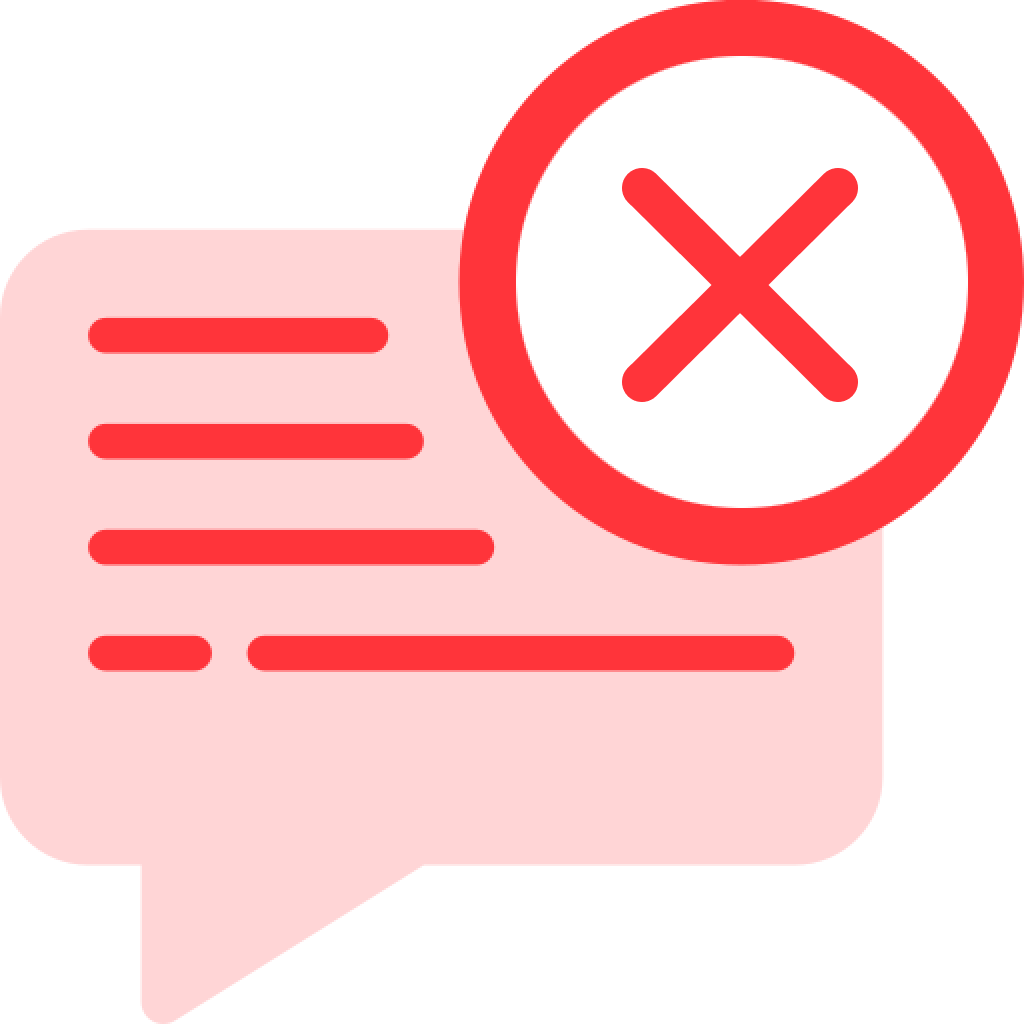
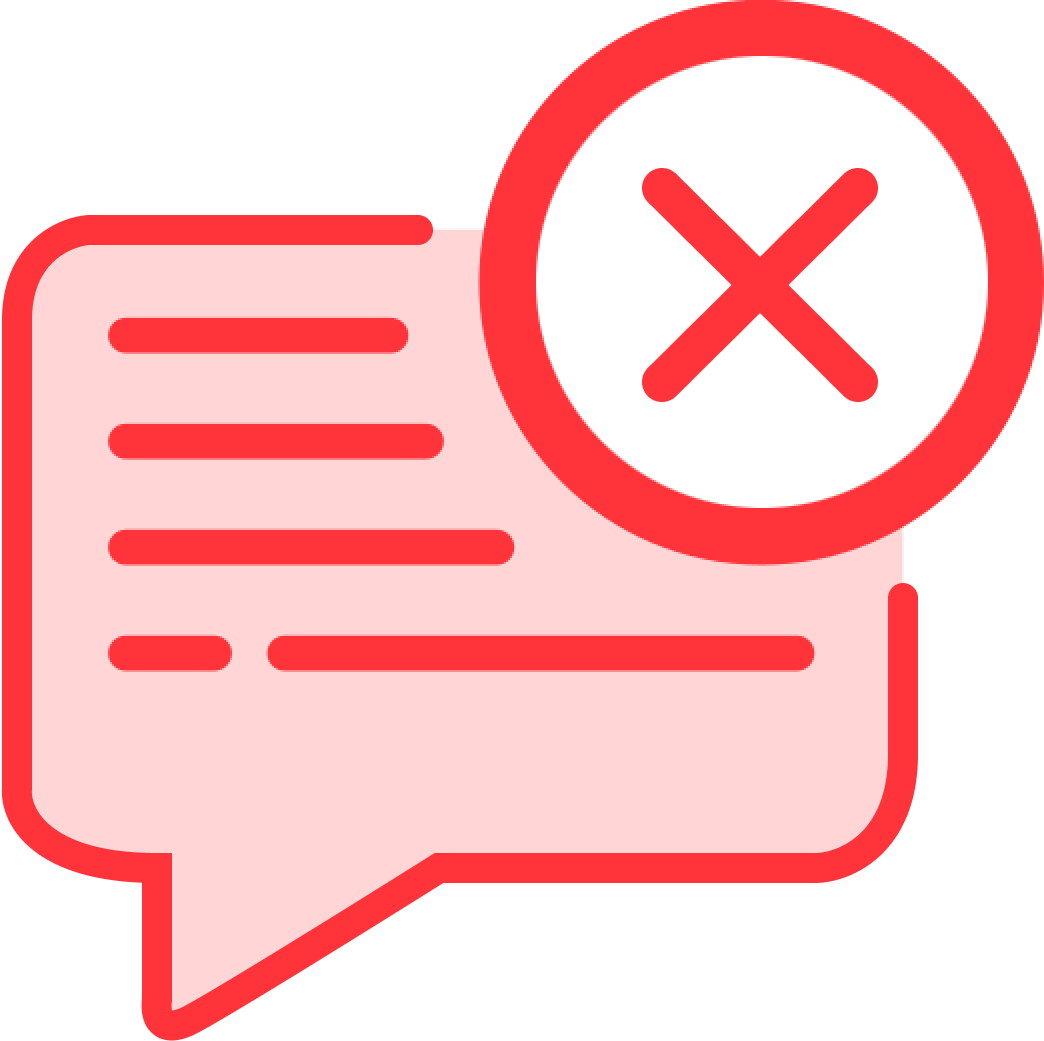
add button to scroll chat

diff --git a/src/screens/ChatDetails/index.js b/src/screens/ChatDetails/index.js
@@ -19,7 +19,7 @@ import { styles } from './style';
 import BackArrow from '../../components/BackArrow';
 import images from '../../services/utilities/images';
 import { TextInput } from 'react-native-gesture-handler';
-import { colors, sizes } from '../../services';
+import { colors, fontSize, sizes } from '../../services';
 import { KeyboardAwareScrollView } from 'react-native-keyboard-aware-scroll-view';
 import KeyboardSpacer from 'react-native-keyboard-spacer';
 import LottieView from 'lottie-react-native';
@@ -46,6 +46,7 @@ export default function ChatDetails({ navigation, route }) {
   const [chatId, setChatId] = useState(null)
   const [text, setText] = useState('')
   const [showImgScreen, setShowImgScreen] = useState(false)
+  const [showScrollToBottom, setShowScrollToBottom] = useState(false);
 
   useEffect(() => {
     if (chatRoomId) {
@@ -160,6 +161,16 @@ export default function ChatDetails({ navigation, route }) {
     return () => backHandler.remove();
   }, [userData, showImgScreen]);
 
+  const handleScroll = (event) => {
+    const offsetY = event.nativeEvent.contentOffset.y;
+    const contentHeight = event.nativeEvent.contentSize.height;
+    const layoutHeight = event.nativeEvent.layoutMeasurement.height;
+    if (offsetY < contentHeight - layoutHeight - 20) {
+      setShowScrollToBottom(true);
+    } else {
+      setShowScrollToBottom(false);
+    }
+  }
 
   const requestCameraPermission = async () => {
     const granted = await PermissionsAndroid.request(
@@ -242,8 +253,7 @@ export default function ChatDetails({ navigation, route }) {
     setShowImgScreen(false)
     setSelectedImages([])
   }
-  console.log("-=-=-==-", userData?.chat
-    .filter(chat => chat?._id === chatId));
+  const selectedChat = userData?.chat?.find(chat => chat?._id === chatId)
   return (
     <SafeAreaView>
       {showImgScreen ? (
@@ -296,21 +306,24 @@ export default function ChatDetails({ navigation, route }) {
             }} />
             <Text style={styles.headerText}>{chatName ? chatName : ''}</Text>
           </View>
-          {
-            chatId &&
-            userData?.chat?.length == [] &&
-            <View style={{ backgroundColor: 'red' }}>
-              <Text>no chat</Text>
-            </View>
-          }
+
           <View style={styles.chatSubContianer}>
+            {
+              selectedChat?.messages?.length === 0 &&
+              <Text style={{ color: 'black', bottom: sizes.screenHeight * 0.35, textAlign: 'center', fontSize: fontSize.smallM, fontWeight: '500' }}>
+                You're starting a new conversation. Say hi!
+              </Text>
+            }
             <View>
               <ScrollView
                 showsVerticalScrollIndicator={false}
                 contentContainerStyle={styles.scrollContianer}
                 ref={scrollViewRef}
                 onContentSizeChange={() => scrollToBottom()}
-                onLayout={handleLayout}>
+                onLayout={handleLayout}
+                onScroll={handleScroll}
+                scrollEventThrottle={16}
+              >
                 <View
                   style={
                     keyboardOpen
@@ -342,6 +355,18 @@ export default function ChatDetails({ navigation, route }) {
                   }
                 </View>
               </ScrollView>
+              {showScrollToBottom && (
+              <TouchableOpacity
+                style={styles.scrollTouchable}
+                onPress={() => {
+                  setShowScrollToBottom(false)
+                  scrollToBottom()
+                }}
+              >
+                <Image source={images.chatScroll} style={styles.scrollImg} />
+                {/* <Text style={styles.scrollToBottomButtonText}>⬇</Text> */}
+              </TouchableOpacity>
+               )}
             </View>
             <View
               style={
@@ -374,6 +399,7 @@ export default function ChatDetails({ navigation, route }) {
             </View>
             <KeyboardSpacer topSpacing={sizes.screenHeight * 0.045} />
           </View>
+
         </View>
       )}
     </SafeAreaView>

diff --git a/src/screens/ChatDetails/style.js b/src/screens/ChatDetails/style.js
@@ -32,7 +32,7 @@ export const styles = StyleSheet.create({
     // height: sizes.screenHeight,
     // marginBottom: 40,
     paddingBottom: sizes.screenWidth * 0.02,
-    backgroundColor:'red',
+    // backgroundColor:'red',
   },
   containerBody1: {
     marginTop: sizes.screenHeight * 0.02,
@@ -73,24 +73,24 @@ export const styles = StyleSheet.create({
     backgroundColor: colors.chatRecievedBg,
     alignSelf: 'flex-start',
     padding: sizes.screenWidth * 0.01,
-    borderBottomEndRadius: sizes.screenWidth * 0.02,
-    borderTopLeftRadius: sizes.screenWidth * 0.02,
-    borderTopRightRadius: sizes.screenWidth * 0.02,
+    borderBottomEndRadius: sizes.screenWidth * 0.015,
+    borderTopLeftRadius: sizes.screenWidth * 0.015,
+    borderTopRightRadius: sizes.screenWidth * 0.015,
     marginBottom: sizes.screenWidth * 0.015,
     maxWidth: sizes.screenWidth * 0.8
   },
   chatText: {
     color: colors.black,
-    fontSize: fontSize.smallM,
-    lineHeight: sizes.screenHeight * 0.019,
+    fontSize: fontSize.medium,
+    // lineHeight: sizes.screenHeight * 0.019,
   },
   chatSend: {
     backgroundColor: colors.white,
     alignSelf: 'flex-end',
     padding: sizes.screenWidth * 0.01,
-    borderTopLeftRadius: sizes.screenWidth * 0.02,
-    borderTopRightRadius: sizes.screenWidth * 0.02,
-    borderBottomLeftRadius: sizes.screenWidth * 0.02,
+    borderTopLeftRadius: sizes.screenWidth * 0.015,
+    borderTopRightRadius: sizes.screenWidth * 0.015,
+    borderBottomLeftRadius: sizes.screenWidth * 0.015,
     marginBottom: sizes.screenWidth * 0.015,
     maxWidth: sizes.screenWidth * 0.8,
     borderWidth: 0.5,
@@ -167,4 +167,13 @@ export const styles = StyleSheet.create({
     // marginRight:sizes.screenWidth * 0.01,
     // backgroundColor:'yellow'
   },
+  scrollImg: {
+    width: sizes.screenWidth * 0.1,
+    height: sizes.screenWidth * 0.1,
+  },
+  scrollTouchable: {
+    position: 'absolute',
+    right: 15,
+    bottom: 20
+  }
 });

diff --git a/src/screens/Explore/index.js b/src/screens/Explore/index.js
@@ -20,7 +20,7 @@ import StarRating from 'react-native-star-rating-widget';
 import LottieView from 'lottie-react-native';
 import { useDispatch, useSelector } from 'react-redux';
 import { selectAuthToken } from '../../store/authToken';
-import { getAllBarber } from '../../services/config/API';
+import { getAllBarber, handleGetUserDetails } from '../../services/config/API';
 import { ErrorShow } from '../../components/Error';
 import { selectlocation, setLocation } from '../../store/location';
 import { setBarber } from '../../store/barber';
@@ -29,7 +29,7 @@ import LocationServicesDialogBox from 'react-native-android-location-services-di
 import { useFocusEffect } from '@react-navigation/native';
 import formatToJSON from '../../services/config/FormatToJson';
 import { socket, socketService } from '../../services/Socket';
-import { selectUserData } from '../../store/userData';
+import { selectUserData, setUserData } from '../../store/userData';
 import ChatConponent from '../../components/ChatComponent';
 
 export default function Explore({ navigation }) {
@@ -232,10 +232,21 @@ export default function Explore({ navigation }) {
     );
   };
 
+  const getUserDetails = async () => {
+    try {
+      const response = await handleGetUserDetails(authToken)
+      if (response?.status == 200) {
+        dispatch(setUserData(response?.data?.userData));
+      }
+    } catch (error) {
+      console.log("error in user details", error);
+    }
+  }
+
   useFocusEffect(
     useCallback(() => {
       handleRunEveryTime();
-      console.log('meh chal rha hn bhaiiiii');
+      getUserDetails()
     }, []),
   );
 

diff --git a/src/services/config/API/index.js b/src/services/config/API/index.js
@@ -368,7 +368,7 @@ export const deleteReview = async (reviewId, token) => {
       'Content-Type': 'application/json',
       Authorization: `Bearer ${token}`,
     };
-    const response = await axiosInstance.post(`user/deleteReview/${reviewId}`, {}, { headers, },
+    const response = await axiosInstance.post(`user/deleteReview/${reviewId}`, {}, { headers },
     );
     return response;
   } catch (error) {
@@ -390,6 +390,21 @@ export const uploadMultiplesChatImages = async (formData, token) => {
     };
     const data = await axios(axiosConfig);
     return data;
+  } catch (error) {
+    return error;
+  }
+};
+
+export const handleGetUserDetails = async (token) => {
+  try {
+    console.log(token);
+    const headers = {
+      'Content-Type': 'application/json',
+      Authorization: `Bearer ${token}`,
+    };
+    const response = await axiosInstance.get("user/userData", { headers },
+    );
+    return response;
   } catch (error) {
     return error;
   }

diff --git a/src/services/config/AxiosInstance/index.js b/src/services/config/AxiosInstance/index.js
@@ -1,8 +1,8 @@
 import axios from 'axios';
 
-// export const BASE_URL = 'http://192.168.100.112:6000/';
+export const BASE_URL = 'http://192.168.100.112:6000/'; //Aleem
 // export const BASE_URL = 'https://tru-barber-2515ddfdb32f.herokuapp.com/';
-export const BASE_URL = 'http://192.168.100.111:6000/'; //fuzz
+// export const BASE_URL = 'http://192.168.100.111:6000/'; //fuzz
 
 export const axiosInstance = axios.create({
   baseURL: BASE_URL,

diff --git a/src/services/utilities/images/index.js b/src/services/utilities/images/index.js
@@ -124,8 +124,10 @@ import chatImg from "../../../assets/chatImg.png"
 import cancel from "../../../assets/cancel.png"
 import sendSecond from "../../../assets/sendSecond.png"
 import noChatImg from "../../../assets/noChatImg.png"
+import chatScroll from "../../../assets/chatScroll.png"
 
 const images = {
+  chatScroll,
   noChatImg,
   sendSecond,
   cancel,
